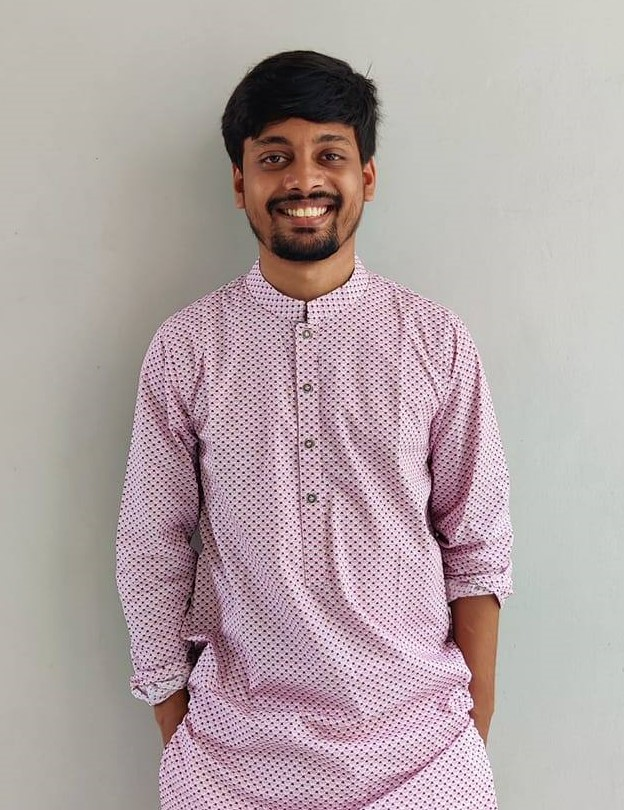
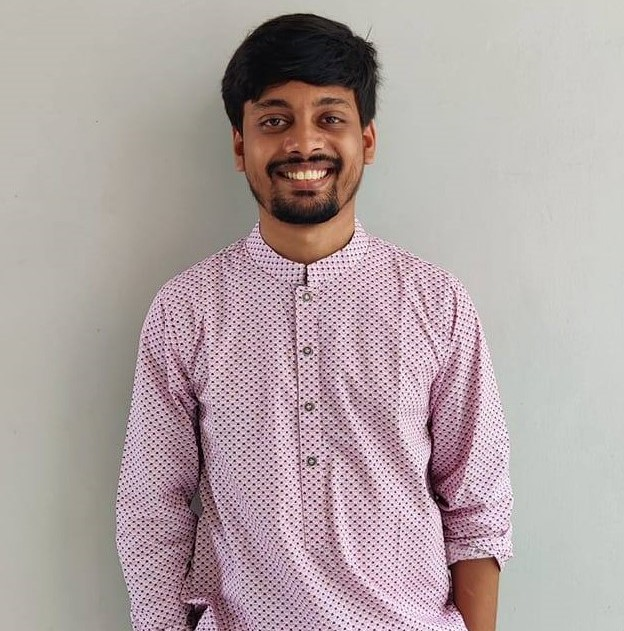
full responsive

diff --git a/src/components/about/about.css b/src/components/about/about.css
@@ -1,35 +1,20 @@
 .about__container {
     display: grid;
-    grid-template-columns: 35% 50%;
-    gap: 15%;
+    grid-template-columns: 40% 55%;
+    gap:5%;
 }
-
-.about__me {
-    width: 22rem;
-    aspect-ratio: 1/1;
-    border-radius: 2rem;
-    background: linear-gradient(45deg, transparent, var(--color-primary),
-            transparent);
-    display: grid;
-    place-items: center;
-}
-
 
 .about__me-image{
-    width: 100%;
-    max-height:100%;
-    border-radius:2rem;
+    width: 90%;
     overflow:hidden;
-    transform:rotate(10deg);
     transition:var(--transition);
 }
+
 .about__me-image img{
     width: 100%;
+    border-radius:2rem;
 }
 
-.about__me-image:hover {
-    transform: rotate(0);
-}
 
 
 .about__cards {
@@ -42,7 +27,7 @@
     background: var(--color-primary);
     border: 4px solid transparent;
     border-radius: 1rem;
-    padding: 2rem;
+    padding: 1rem;
     text-align: center;
     transition: var(--transition);
     color: black;
@@ -55,120 +40,125 @@
     color: white;
 }
 
-.about__icon {
-
-    font-size: 1.4rem;
-    margin-bottom: 1rem;
-}
 
 
-
-.about__card h5 {
-    font-size: 0.95rem;
-
-}
 
 .about__card small {
     font-size: 0.7rem;
 }
 
 .about__content p {
-margin-top: 1.5rem ;
+    margin-top: 1rem ;
     text-align: justify;
     font-size: 0.9rem;
 }
 
-/* Media Query for Small Devices (301px to 600px) */
-@media only screen and (min-width: 301px) and (max-width: 600px) {
+
+.about__content a {
+    margin-top: 0.5rem ;
+    font-size: 0.9rem;
+}
+
+.about__content svg {
+    vertical-align: middle;
+    margin-right: 0.4rem;
+    font-size: 1rem;
+  }
+
+
+  @media only screen and  (max-width:300px) {
     .about__container {
-        grid-template-columns: 1fr; /* Adjusting grid layout for small screens */
-        gap: 3rem; /* Adjusting the gap between grid items */
-        justify-items: center;
+    grid-template-columns:1fr; /* Adjusting grid layout for small screens */
+    align-items: center;
+    justify-items: center;
+    justify-content: center;
     }
-
-    .about__me {
-        width: 15rem;
-    }
-
-    .about__cards {
-        grid-template-columns: 1fr; /* Adjusting grid layout for small screens */
-        gap: 1rem; /* Adjusting the gap between cards */
-        justify-items: center;
+    .about__cards{
+        grid-template-columns:1fr;
     }
 
     .about__card {
-        width: 15rem; /* Fixed width for the cards */
-        border: 2px solid transparent;
-        padding: 1rem;
+        padding: 0.5rem; 
     }
 
+  
+    .about__content p {
+        font-size: 0.6rem;
+    }
+   
+    .about__content svg {
+        font-size: 0.8rem;
+    }
+    .about__card h5 {
+        font-size: 0.7rem;
+    }
+    
+    .about__card small {
+        font-size: 0.6rem;
+    }
+    
+    .about__content a {
+        font-size: 0.6rem;
+    }
+
+}
+
+
+  @media only screen and (min-width: 301px) and (max-width: 500px) {
+    .about__container {
+    grid-template-columns:1fr; /* Adjusting grid layout for small screens */
+    align-items: center;
+    justify-items: center;
+    justify-content: center;
+    }
+
+    .about__me-image{
+        width: 80%;
+    }
+  
+    .about__content p {
+        font-size: 0.7rem;
+    }
+    .about__content svg {
+        font-size: 0.8rem;
+    }
+    .about__card h5 {
+        font-size: 0.7rem;
+    }
+    
+    .about__card small {
+        font-size: 0.6rem;
+    }
+
+}
+
+
+
+
+@media only screen and (min-width: 501px) and (max-width: 768px) {
+    .about__container {
+    grid-template-columns:70%; /* Adjusting grid layout for small screens */
+    align-items: center;
+    justify-items: center;
+    justify-content: center;
+    }
+    .about__me-image{
+        width: 70%;
+    }
     .about__content p {
         font-size: 0.8rem;
     }
+
 }
 
 
 
 /* Media Query for Medium Devices (601px to 768px) */
-@media only screen and (min-width: 601px) and (max-width: 768px) {
-    .about__container {
-        grid-template-columns: 1fr;
-        gap: 3rem;
-        justify-items: center;
-    }
-
-    .about__me {
-        width: 20rem;
-    }
-
-   
-
-    .about__cards {
-        grid-template-columns: repeat(2, 1fr); /* Decreasing the number of columns for cards */
-       
-        justify-items: center;
-       
-    }
-
-    .about__card {
-        width: 16rem; /* Fixed width for the cards */
-        border: 2px solid transparent;
-        padding: 1rem;
-    }
-    
-
-    .about__content p {
-        font-size: 0.9rem;
-    }
-
-}
-
-/* Media Query for Large Devices (769px to 1024px) */
-@media only screen and (min-width: 769px) and (max-width: 1024px) {
-
-    .about__container {
-        grid-template-columns: 50% 45%;
-        gap:5%
-    }
-    .about__cards {
-        grid-template-columns: repeat(2, 1fr); 
-        gap: 1rem;  
-    }
-
-    .about__card {
-        border: 2px solid transparent;
-        padding: 1rem;
-    }
-
-    .about__me {
-        width: 19rem;
-    }
-
-
+@media only screen and (min-width: 769px) and (max-width: 1000px) {
+ 
     .about__content p {
         font-size: 0.8rem;
     }
 
 }
-
 

diff --git a/src/components/about/About.jsx b/src/components/about/About.jsx
@@ -3,6 +3,8 @@ import "./about.css";
 import ME2 from "../../assets/prooo.jpg";
 import { LuAward } from "react-icons/lu";
 import { VscFolderLibrary } from "react-icons/vsc";
+import CV from '../../assets/cv.pdf'
+import { IoCloudDownloadOutline } from "react-icons/io5";
 
 const About = () => {
   return (
@@ -11,10 +13,10 @@ const About = () => {
       <h2>About Me</h2>
 
       <div className="container about__container">
-        <div className="about__me">
+       
           <div className="about__me-image">
             <img src={ME2} alt="" />
-          </div>
+    
         </div>
 
         <div className="about__content">
@@ -41,6 +43,7 @@ const About = () => {
             leadership abilities are dedicated to providing advanced and
             user-friendly solutions.
           </p>
+          <a href={CV} download className='btn btn-primary'><IoCloudDownloadOutline />My Resume</a>
         </div>
       </div>
     </section>
